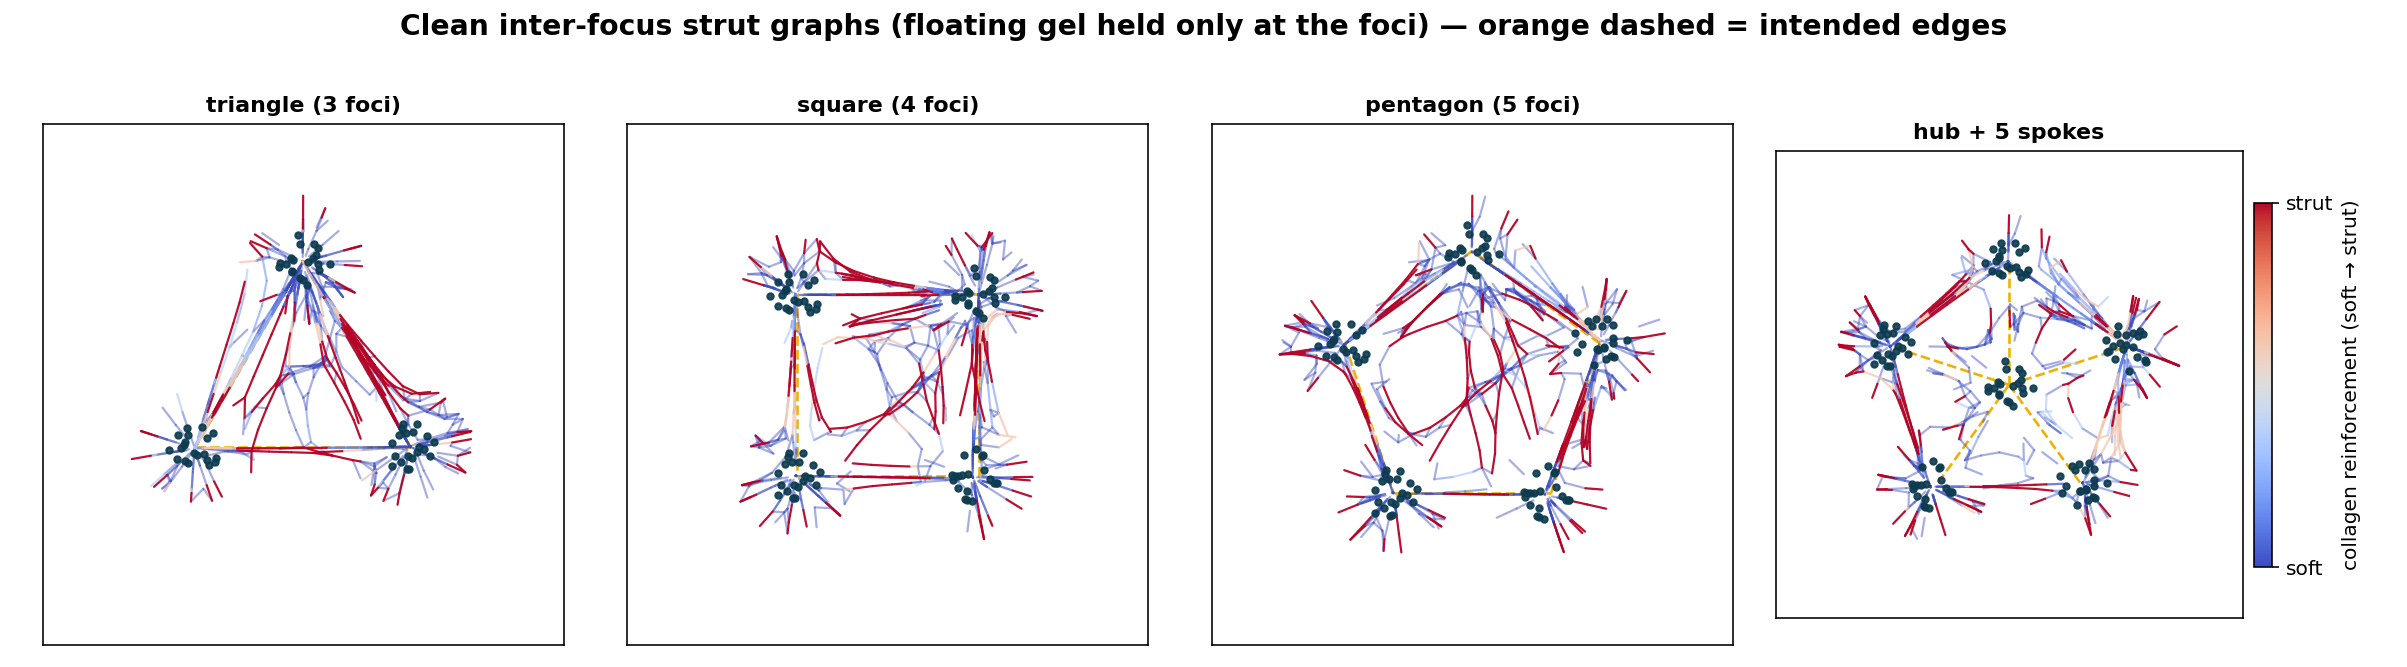
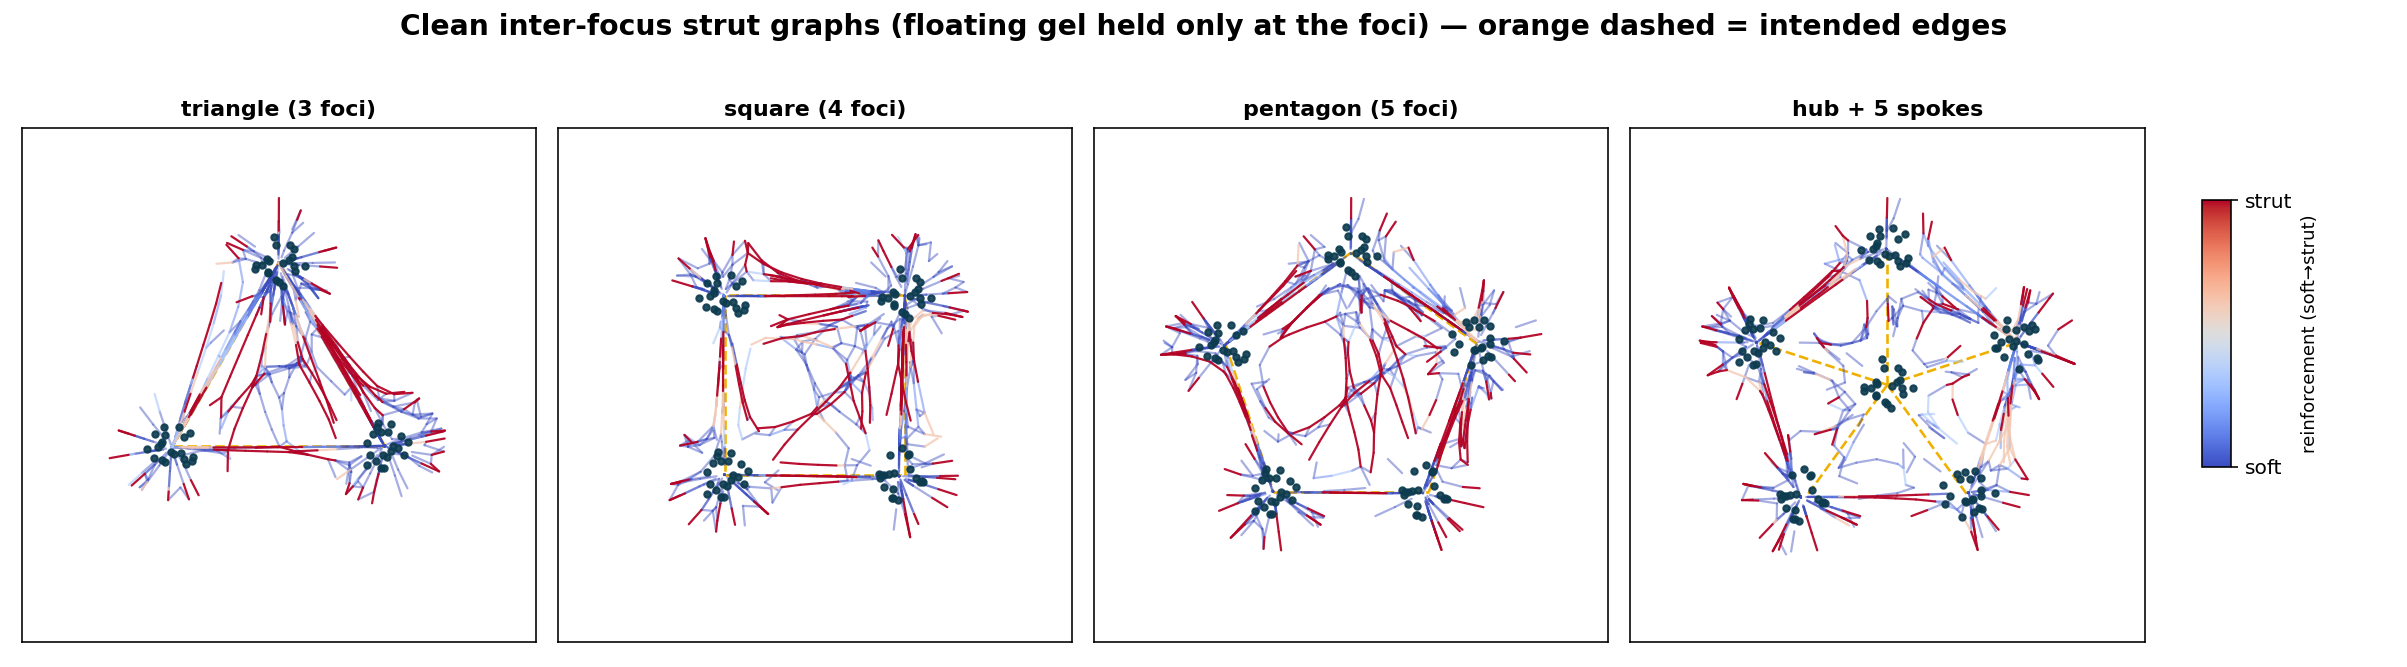
Fix colorbar overlapping panels: dedicated right-side axis
render.add_colorbar now draws on a dedicated figure axis (rect) instead of
stealing space from the panel axes, with a shorter label, so the colorbar/label
no longer invades the plots. Callers reserve right margin via tight_layout
rect=[0,0,0.90..0.91,top] before adding the colorbar. Regenerated freegel and
cleangraph figures.

diff --git a/ecm-remodel3d/run_emergent.py b/ecm-remodel3d/run_emergent.py
@@ -119,10 +119,10 @@ def count_sweep():
         if i == best:
             for s in ax.spines.values():
                 s.set_color("#e8a000"); s.set_linewidth(2.5); s.set_visible(True)
-    render.add_colorbar(fig, axes[-1], cmap="coolwarm")
     fig.suptitle("Emergent reticular network vs spheroid number — auto-scored for spleen-likeness",
                  fontweight="bold", fontsize=14, y=1.0)
-    fig.tight_layout(rect=[0, 0, 1, 0.86])
+    fig.tight_layout(rect=[0, 0, 0.91, 0.86])
+    render.add_colorbar(fig, cmap="coolwarm")
     fig.savefig(os.path.join(FIG, "emergent_count.png"), dpi=140)
     plt.close(fig)
 
@@ -163,10 +163,10 @@ def spacing_sweep():
         ax.set_title(f"{name} spacing (R={R})\nbranch {m['branch']} · conn {m['connectivity']:.2f} · "
                      f"pore {m['pore']:.0f}µm", color="black", fontsize=11, fontweight="bold")
         print(f"      {name}: branch={m['branch']} conn={m['connectivity']:.2f} pore={m['pore']:.1f}")
-    render.add_colorbar(fig, axes[-1], cmap="coolwarm")
     fig.suptitle("Spheroid spacing: too close = one clump, too far = isolated asters, "
                  "intermediate = connected web", fontweight="bold", fontsize=14, y=1.0)
-    fig.tight_layout(rect=[0, 0, 1, 0.88])
+    fig.tight_layout(rect=[0, 0, 0.91, 0.88])
+    render.add_colorbar(fig, cmap="coolwarm")
     fig.savefig(os.path.join(FIG, "emergent_spacing.png"), dpi=140)
     plt.close(fig)
 

diff --git a/ecm-remodel3d/ecm_pipeline/render.py b/ecm-remodel3d/ecm_pipeline/render.py
@@ -47,9 +47,17 @@ def draw_network(ax, net, cells=None, theme="light", cmap="coolwarm",
     return hi
 
 
-def add_colorbar(fig, ax, cmap="coolwarm", label="collagen reinforcement (soft → strut)"):
+def add_colorbar(fig, ax=None, cmap="coolwarm", label="reinforcement (soft→strut)",
+                 rect=(0.915, 0.30, 0.012, 0.40)):
+    """Add a colour scale on a DEDICATED right-side axis (never steals panel space).
+
+    Callers should leave room on the right, e.g.
+    `fig.tight_layout(rect=[0, 0, 0.90, top])`. The `ax` argument is accepted for
+    backward compatibility but ignored for placement.
+    """
     sm = ScalarMappable(norm=Normalize(0, 1), cmap=cmap)
-    cb = fig.colorbar(sm, ax=ax, shrink=0.7, pad=0.02)
-    cb.set_label(label, fontsize=10)
+    cax = fig.add_axes(rect)
+    cb = fig.colorbar(sm, cax=cax)
+    cb.set_label(label, fontsize=9)
     cb.set_ticks([0, 1]); cb.set_ticklabels(["soft", "strut"])
     return cb

diff --git a/ecm-remodel3d/run_cleangraph.py b/ecm-remodel3d/run_cleangraph.py
@@ -100,10 +100,10 @@ def main():
     fig, axes = plt.subplots(1, 4, figsize=(16.6, 4.6))
     for ax, (name, net, cells, target) in zip(axes, results):
         draw(ax, net, cells, name, target=target, vmax=vmax)
-    render.add_colorbar(fig, axes[-1], cmap="coolwarm")
     fig.suptitle("Clean inter-focus strut graphs (floating gel held only at the foci) — "
                  "orange dashed = intended edges", fontweight="bold", fontsize=14)
-    fig.tight_layout(rect=[0, 0, 1, 0.92])
+    fig.tight_layout(rect=[0, 0, 0.90, 0.92])
+    render.add_colorbar(fig, cmap="coolwarm")
     fig.savefig(os.path.join(FIG, "clean_graphs.png"), dpi=145); plt.close(fig)
     print("done. figures in", FIG)
 

diff --git a/ecm-remodel3d/run_freegel.py b/ecm-remodel3d/run_freegel.py
@@ -95,10 +95,10 @@ def main():
              target=edges, vmax=vmax)
         draw(axes[r, 1], nf, cells, f"{name} — FREE/floating gel\n(bridges between foci)",
              target=edges, vmax=vmax)
-    render.add_colorbar(fig, axes[:, 1].tolist(), cmap="coolwarm")
     fig.suptitle("Boundary condition decides what you can build: free gel → "
                  "clean inter-focus geometric graph", fontweight="bold", fontsize=13)
-    fig.tight_layout(rect=[0, 0, 1, 0.95])
+    fig.tight_layout(rect=[0, 0, 0.90, 0.95])
+    render.add_colorbar(fig, cmap="coolwarm")
     fig.savefig(os.path.join(FIG, "freegel_vs_anchored.png"), dpi=145); plt.close(fig)
     print("done. figures in", FIG)
 

diff --git a/ecm-remodel3d/run_whitepulp.py b/ecm-remodel3d/run_whitepulp.py
@@ -104,10 +104,10 @@ def main():
                             show_cells=False)
         ax.set_xlim(20, DOMAIN - 20); ax.set_ylim(20, DOMAIN - 20)
         ax.set_title(ttl, fontsize=11, fontweight="bold")
-    render.add_colorbar(fig, axes[2], cmap=CMAP)
     fig.suptitle("Reproducing the spleen white-pulp reticular skeleton vs a random control",
                  fontweight="bold", fontsize=14)
-    fig.tight_layout(rect=[0, 0, 1, 0.95])
+    fig.tight_layout(rect=[0, 0, 0.91, 0.95])
+    render.add_colorbar(fig, cmap=CMAP)
     fig.savefig(os.path.join(FIG, "whitepulp_vs_control.png"), dpi=140)
     plt.close(fig)
 
